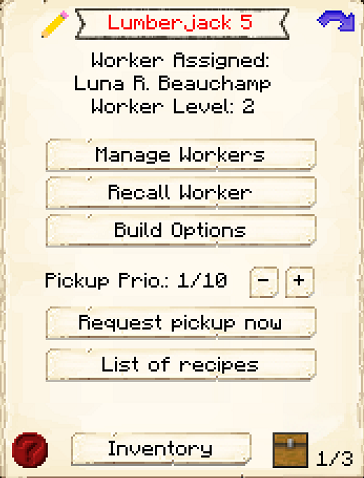
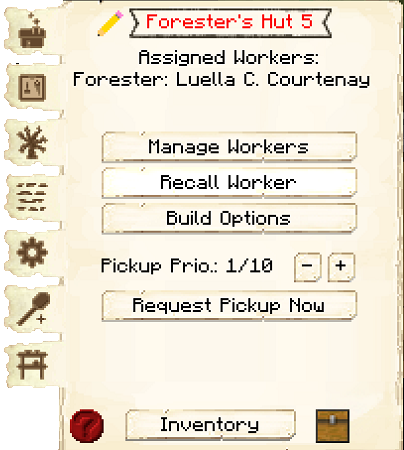
Forester Hut Update (#778)
* Forester Hut Update

* Forester Hut Update

New Infobox

diff --git a/pages/src/source/buildings/forester.md b/pages/src/source/buildings/forester.md
@@ -4,71 +4,33 @@ layout: default
 ---
 # Forester's Hut
 
-<div class="infobox box text-center">
-    <img src="../../assets/images/buildings/forester.png" alt="Forester's Hut" />
-    <hr />
-    <div class="row section-text text-left">
-        <div class="col">
-        <p><strong>Worker:</strong></p>
-        </div>
-        <div class="col">
-        <p><a href="../workers/forester">Forester</a></p>
-        </div>
-    </div>
-    <hr />
-    <recipe>forester</recipe>
-</div>
-
+{% capture content %}
 The Forester's Hut is where the Forester will go in between chopping down trees. The Forester will cut down any tree in an approximate 150 block area (from themselves) that is not in a hut schematic and doesn't have cobblestone placed beneath it.
 
-**Note:** In Minecraft 1.16+ Foresters require hoes (for breaking leaves).
+**Note:** In addition to axes for chopping down trees, Foresters require hoes for breaking leaves.
+{% endcapture %}
+{% capture infobox %}
+{% include infobox/building.html worker="forester" recipes="forester" image="../../assets/images/buildings/forester.png" alt="Forester's Hut" %}
+{% endcapture %}
+{% include page-infobox-wrapper.html content=content infobox=infobox %}
 
-<br>
 
 ## Forester's Hut GUI
-
-When accessing the Forester's Hut block by right-clicking on it, you will see a GUI with different options:
-
 <div class="row">
-  <div class="col-sm-12 col-md">
-    <img src="../../assets/images/gui/forestergui1.png" class="img-fluid mx-auto" alt="Forester's Hut GUI">
-  </div>
-  <div class="col-sm-12 col-md"><br>
-    <br>
-    <ul>
-      {% for item in site.data.gui.global %}
-        <li><strong>{{ item.button }}:</strong> {{ item.content }}</li>
-      {% endfor %}
-    </ul>
-  </div>
-</div>  
-<br> <br>
+  <div class="col">
 
-This is page two of the Forester's Hut GUI. It shows a list of recognized saplings the Forester can work with, even modded ones (if coded correctly). Here you can turn on or off which type of trees the Forester will chop down. (The black box at the top is to search for saplings.)
+  {% include contentblock/main-gui.html header="When accessing the Forester's Hut block by right-clicking on it, you will see a GUI with different options. You start on the main tab:" image="../../assets/images/gui/forestergui1.png" %}
 
-<div class="row">
-  <div class="col-sm-12 col-md">
-    <img src="../../assets/images/gui/forestergui2.png" class="img-fluid mx-auto" alt="Forester's Hut GUI 2">
-  </div>
-  <div class="col-sm-12 col-md">
-    <ul>
-      <li><strong>Tasklist:</strong> Where you can select the saplings that you want the Forester to work with. Click on a sapling to turn it on or off.</li><br>
-    </ul>
+  {% include contentblock/basic.html header="The second tab of the GUI is <strong>Custom Recipes</strong>." content="Here you can see all the crafting recipes this hut knows.  The arrows allow you to move them up or down in priority.  You are also able to disable specific recipes." image="../../assets/images/gui/forestergui2.png" %}
+
+  {% include contentblock/basic.html header="The third tab of the GUI is <strong>Saplings</strong>." content="It shows a list of recognized saplings the Forester can work with, even modded ones (if coded correctly). Here you can turn on or off which type of trees the Forester will chop down. (The black box at the top is to search for saplings.)" image="../../assets/images/gui/forestergui3.png" %}
+
+  {% include contentblock/basic.html header="The fourth tab of the GUI is <strong>Tasks</strong>." content="This tab shows you any requests the hut is working on, and where it is going." image="../../assets/images/gui/forestergui4.png" %}
+
+  {% include contentblock/settings-gui.html settingskey="forester" header="The fifth tab of the GUI is <strong>Settings</strong>. It has three options:" image="../../assets/images/gui/forestergui5.png" %}
+
+  {% include contentblock/basic.html header="The sixth tab of the GUI is <strong>Tool</strong>." content="This will give you a define area tool so you can select a specific area for the Forester to work. Right click one corner of the area you want, then left click the opposite corner, and this will set a rectangle inside which the Forester will search for trees. Vertical coordinates do not affect this too much; keeping them all around the same y-level can avoid unintentional bugs, though." image="../../assets/images/gui/forestergui6.png" %}
+
+  {% include contentblock/stock-gui.html buildingname="Forester's Hut" header="The seventh tab of the GUI is <strong>Minimum Stock</strong>. It has one button:" image="../../assets/images/gui/forestergui7.png"%}
   </div>
 </div>
-<br>
-This is page three of the Forester's Hut GUI. 
-<br><br>
-<div class="row">
-  <div class="col-sm-12 col-md">
-    <img src="../../assets/images/gui/forestergui3.png" class="img-fluid mx-auto" alt="Forester's Hut GUI 3">
-  </div>
-  <div class="col-sm-12 col-md">
-    <ul>
-      <li><strong>Replant:</strong> Where you can select if you want the Forester to replant trees that are chopped down. They will only do this if they have enough saplings.</li><br>
-      <li><strong>Restriction:</strong> This lets you turn on or off if you want the Forester to be restricted to a certain area when chopping trees. To choose the area, use the Give Tool button.</li><br>
-      <li><strong>Give Tool:</strong>This will give you a define area tool so you can select a specific area for the Forester to work. Right click one corner of the area you want, then left click the opposite corner, and this will set a rectangle inside which the Forester will search for trees. Vertical coordinates do not affect this too much; keeping them all around the same y-level can avoid unintentional bugs, though.</li>
-    </ul>
-  </div>
-</div>
-<br>
